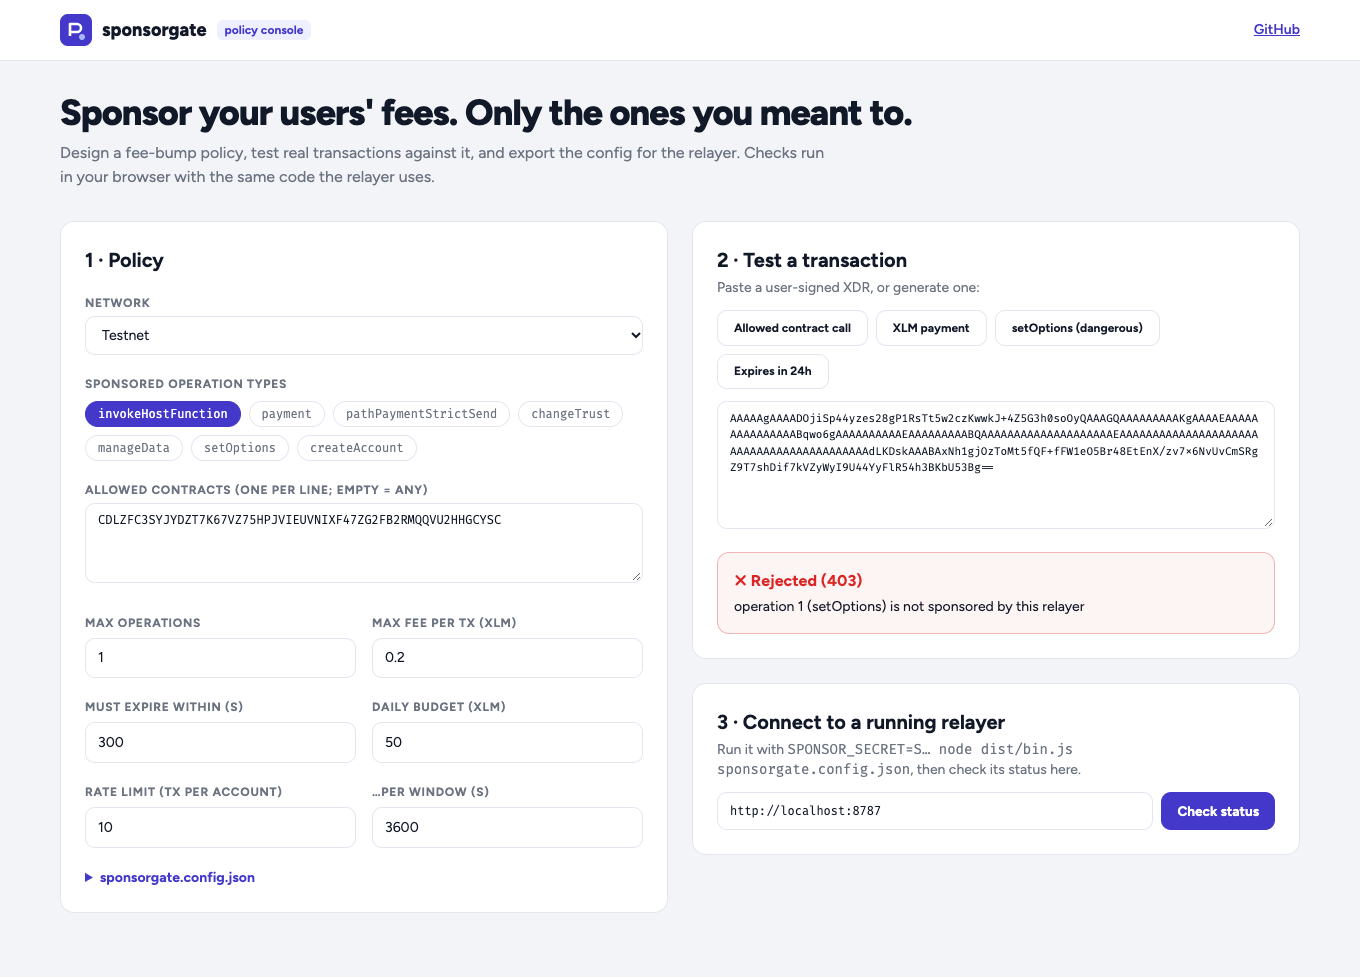
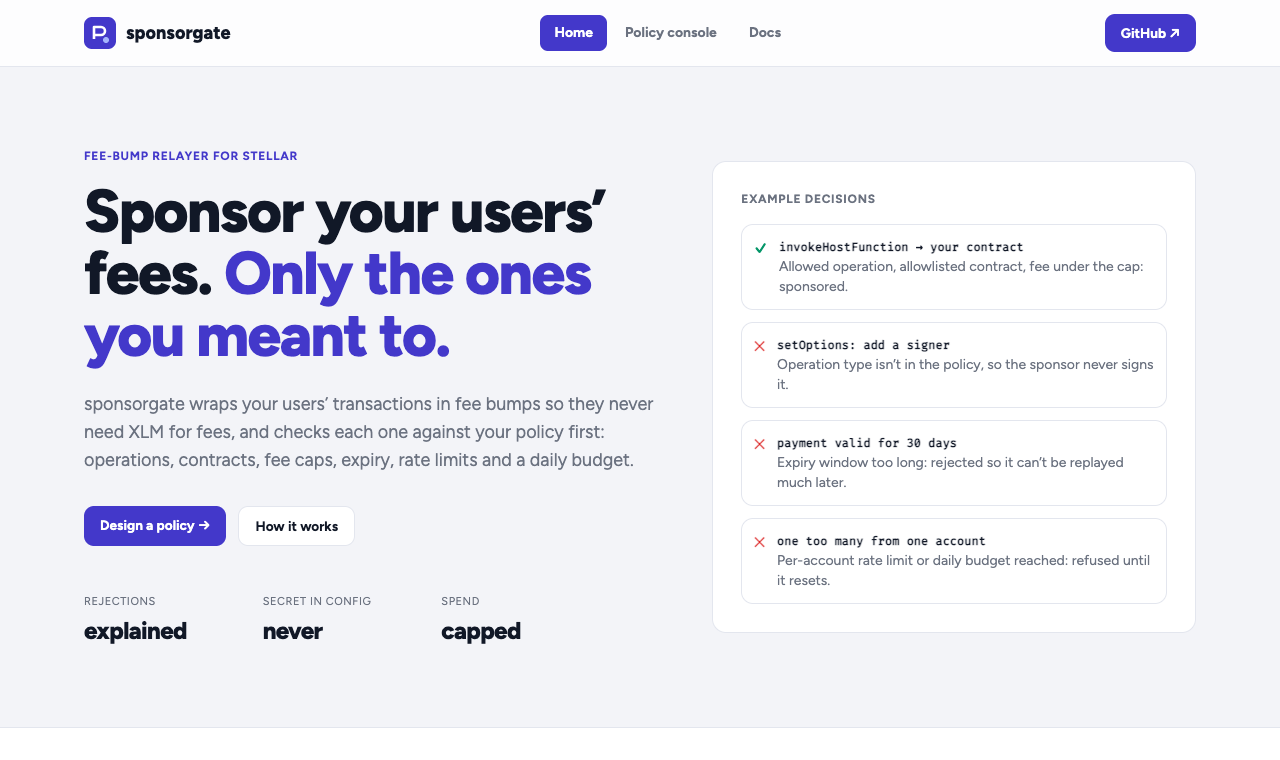
Docs: codes table, persistence, metrics, install from GitHub
The library isn't on npm; a prepare script builds it on git installs, so
npm install github:circleboyslimited/sponsorgate works.

diff --git a/README.md b/README.md
@@ -21,7 +21,7 @@ contracts *your* app uses, within fee, rate and budget limits.
 {
   "networkPassphrase": "Test SDF Network ; September 2015",
   "allowedOperations": ["invokeHostFunction"],
-  "allowedContracts": ["CA3D…GAXE"],
+  "allowedContracts": ["CA3D…GAXE", "CDLZ…CYSC:transfer"],
   "maxOperations": 1,
   "maxFeeStroops": 2000000,
   "maxValiditySeconds": 300,
@@ -50,17 +50,43 @@ Soroban transactions with resource fees are bumped correctly.
 
 | Method & path | Body | Response |
 | --- | --- | --- |
-| `POST /sponsor` | `{ "xdr": "<signed inner envelope>", "submit": false }` | `{ xdr, hash, feeStroops, submitted }` |
+| `POST /sponsor` | `{ "xdr": "<signed inner envelope>", "submit": false }` | `{ xdr, hash, feeStroops, feeChargedStroops?, submitted }` |
 | `GET /status` | | Sponsor address, network, remaining daily budget, policy |
 | `GET /health` | | `{ ok: true }` |
+| `GET /metrics` | | Prometheus counters and budget gauge (when `"metrics": true`) |
 
-Errors come back as `{ "error": "…" }` with a meaningful status: `400`
+Errors come back as `{ "error": "…", "code": "…" }` with a meaningful status: `400`
 (malformed), `403` (policy forbids it), `413` (body too large), `429`
 (rate limited), `501` (submission disabled), `502` (network rejected
-it), `503` (budget exhausted).
+it), `503` (budget exhausted). `code` is stable, so apps can react without
+parsing messages:
+
+| `code` | Status | Meaning |
+| --- | --- | --- |
+| `invalid_xdr`, `bad_json`, `missing_xdr` | 400 | Malformed request |
+| `fee_bump_not_allowed`, `unsigned`, `too_many_operations`, `validity_too_long`, `expired`, `fee_too_high` | 400 | Transaction doesn't meet the policy |
+| `sponsor_is_source`, `acts_as_sponsor`, `operation_not_allowed`, `contract_not_allowed` | 403 | Policy forbids it |
+| `body_too_large` | 413 | Request body over 64 KB |
+| `rate_limited` | 429 | Too many from this account |
+| `submit_disabled` | 501 | No `rpcUrl`/`horizonUrl` configured |
+| `submit_failed` | 502 | The network rejected the submission |
+| `budget_exhausted` | 503 | Daily budget used up |
+
+`allowedContracts` entries are a contract id (any function) or `C…:function`
+(only that function), so sponsoring a token's `transfer` doesn't also sponsor `approve`.
 
 With `"submit": true` the relayer submits through Soroban RPC (`rpcUrl`)
-or Horizon (`horizonUrl`). Otherwise your app submits the returned XDR.
+or Horizon (`horizonUrl`) and, once the result is in, returns the unused
+part of the max fee to the daily budget. Otherwise your app submits the
+returned XDR.
+
+### Limits that survive restarts
+
+Set `"stateFile": "sponsorgate.state.json"` and the rate limiter and daily
+budget are saved (atomically) after every request and restored on start.
+To share limits between several relayer instances, implement the
+`StateStore` interface (`load()` / `save(state)`) over Redis or a database
+and pass it to `new Relayer(policy, key, submitter, clock, store)`.
 
 ## Run it
 
@@ -76,6 +102,12 @@ intend to spend.
 
 ## Use it as a library
 
+Not published to npm yet; install it from GitHub (it builds on install):
+
+```bash
+npm install github:circleboyslimited/sponsorgate
+```
+
 ```ts
 import { Relayer, createRelayerServer } from "sponsorgate";
 
@@ -87,13 +119,17 @@ const { xdr } = await relayer.sponsor(userSignedXdr);
 
 ```bash
 npm install
-npm test        # 13 tests: every policy rule, limits, budget, submission, HTTP
+npm test        # 18 tests: every policy rule, limits, persistence, budget, submission, HTTP, metrics
 npm run lint && npm run typecheck && npm run build
 ```
 
 ## Web app
 
 ![sponsorgate web app](docs/assets/web-app.png)
+
+The site has three pages: **Home** (what it does, with live testnet data), **App** (the tool itself) and **Docs** (getting started, concepts, reference and FAQ).
+
+![sponsorgate app page](docs/assets/web-app-page.png)
 
 A policy console at `web/`, using the relayer's own `checkPolicy` and fee math in the browser:
 
